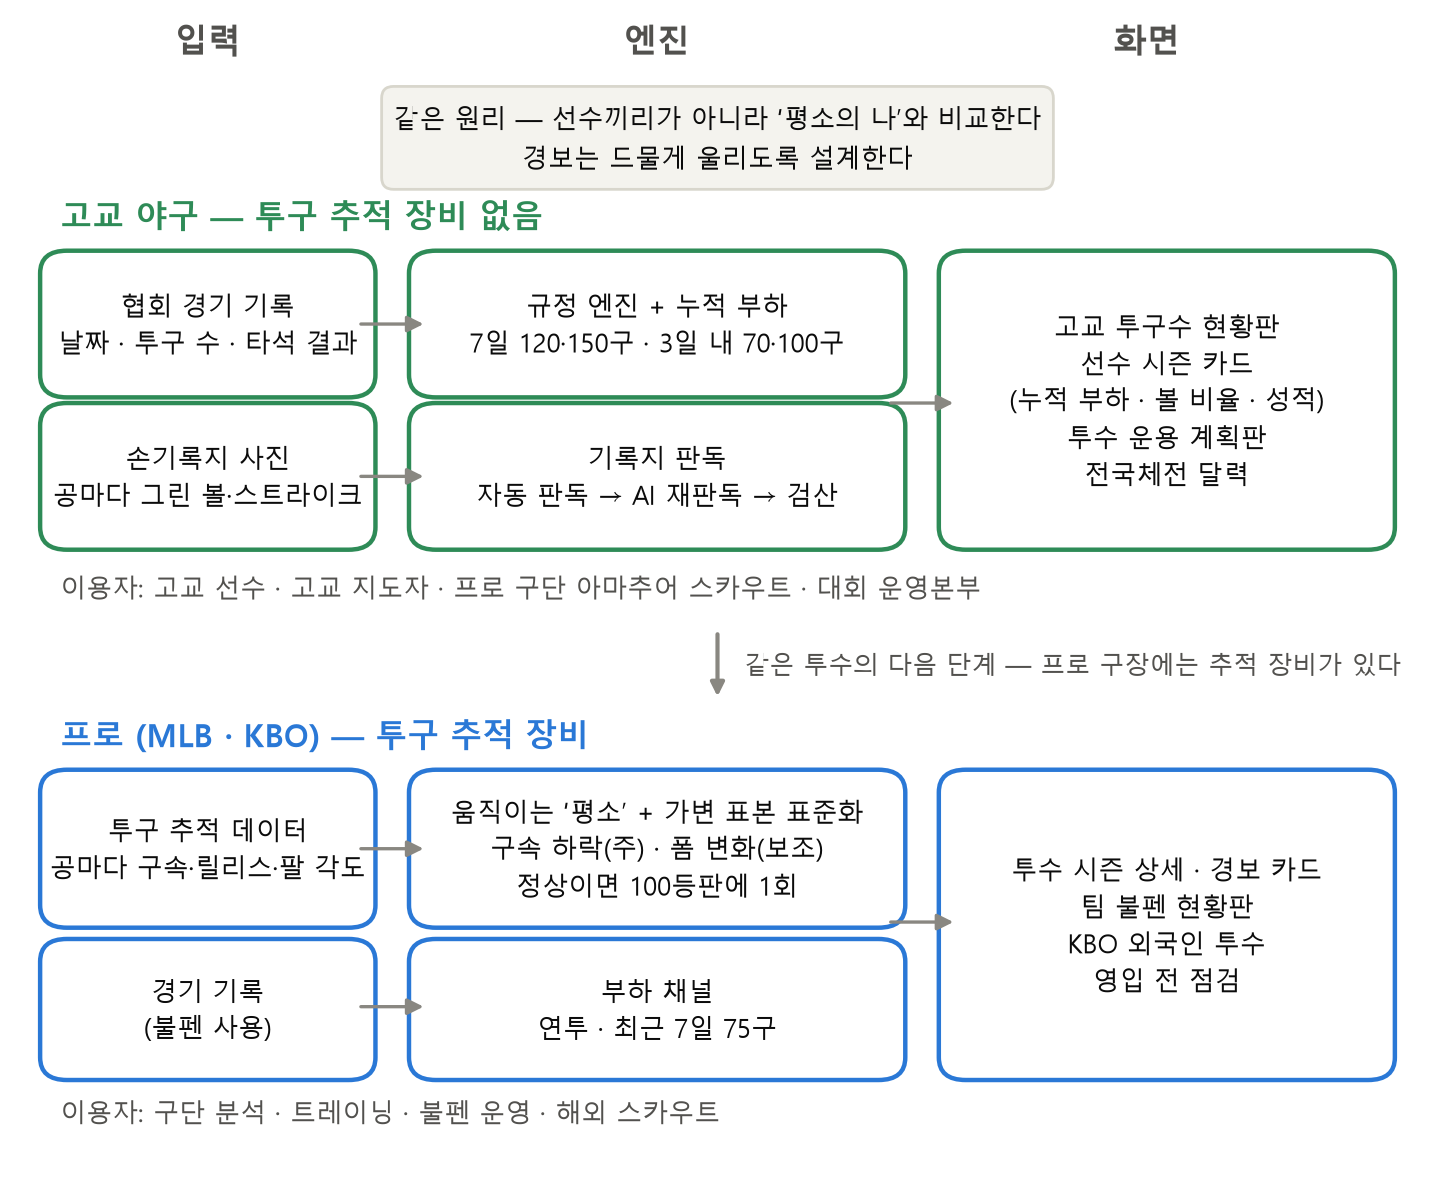
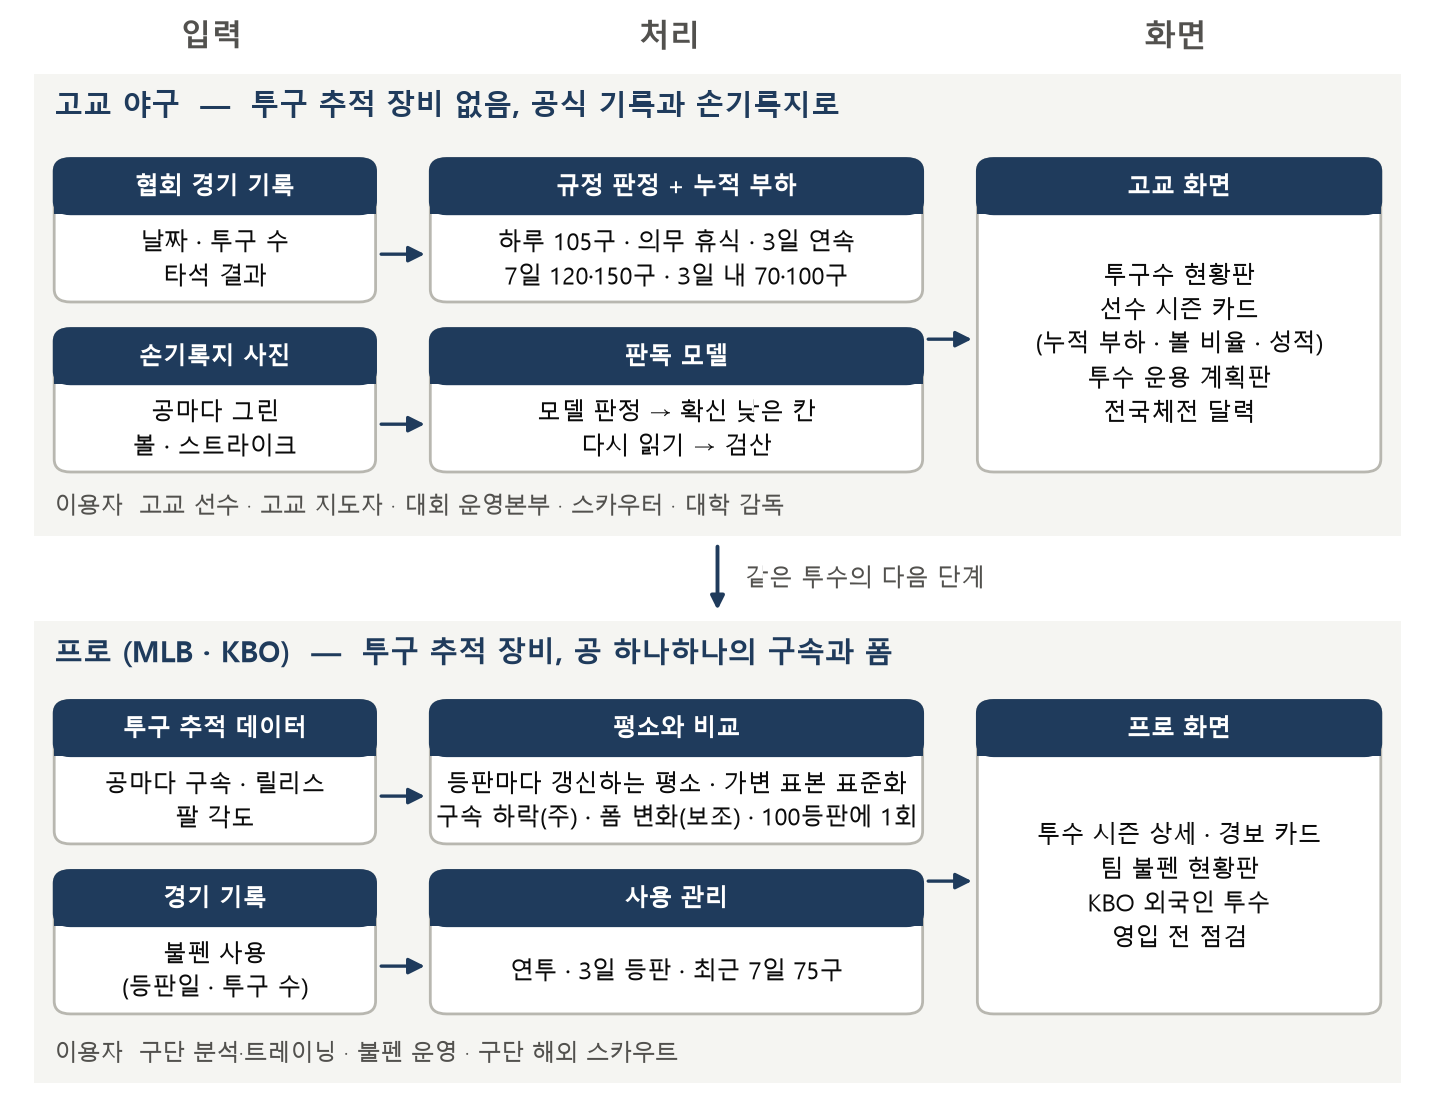
제안서 v4: 요약에 자료표·주요 내용 6개, 경보 횟수를 숫자로, 판독 모델 표현, 서비스 구성 그림 남색으로, 1마일 규칙 출처(Petti 2013), 2026 전국체전 달력, 7장 문구

Changed region(s): [[0.0, 0.0, 0.9812, 0.9864], [0.7666, 0.0, 0.8585, 0.0617], [0.1226, 0.0, 0.184, 0.0617]]

diff --git a/tools/proposal_figures.py b/tools/proposal_figures.py
@@ -24,41 +24,53 @@ def gap_values() -> dict[int, list[int]]:
     return {x["season"]: [int(x["totals"][k]) for _, k in GAP] for x in d["datasets"] if x["mode"] == "season"}
 
 
+NAVY, LINE, BAND = "#1f3b5c", "#b8b7b0", "#f5f5f2"
+
+
+def _panel(ax, x, y, w, h, title, body, fs, title_color=NAVY):
+    """제목 띠 + 본문 상자 (2026-10-25 사용자: 초록·파랑 테두리 상자 대신 — 남색 제목 띠, 흰 상자, 회색 선)."""
+    from matplotlib.patches import FancyBboxPatch
+    ax.add_patch(FancyBboxPatch((x, y), w, h, boxstyle="round,pad=0,rounding_size=0.012", facecolor="white", edgecolor=LINE, linewidth=1.0))
+    ax.add_patch(FancyBboxPatch((x, y + h - 0.052), w, 0.052, boxstyle="round,pad=0,rounding_size=0.012", facecolor=title_color, edgecolor=title_color, linewidth=1.0))
+    ax.add_patch(plt.Rectangle((x, y + h - 0.052), w, 0.02, facecolor=title_color, edgecolor="none"))   # 띠 아래쪽 모서리는 각지게
+    ax.text(x + w / 2, y + h - 0.026, title, ha="center", va="center", fontsize=fs, fontweight="bold", color="white")
+    ax.text(x + w / 2, y + (h - 0.052) / 2, body, ha="center", va="center", fontsize=fs - 0.3, color=plots.INK, linespacing=1.45)
+
+
 def draw_service(path) -> None:
-    """세 열(입력 → 엔진 → 화면)과 두 갈래(고교·프로). 이용자는 갈래 아래 한 줄 — 본문 폭(16cm)에서도 글자가 읽히게 9인치 폭으로."""
+    """세 열(입력 → 처리 → 화면)과 두 갈래(고교·프로). 띠 두 개에 상자 — 색은 남색 하나만."""
     plots.use_style()
-    fig, ax = plt.subplots(figsize=(9, 7.4))
-    ax.set_xlim(-0.02, 1.02); ax.set_ylim(0.02, 1.03); ax.axis("off"); ax.grid(False)
-    fs = 9.5
-    for x, t in ((0.12, "입력"), (0.455, "엔진"), (0.82, "화면")):
-        ax.text(x, 1.01, t, ha="center", va="center", fontsize=12, fontweight="bold", color=plots.INK_SECONDARY)
-    ax.text(0.5, 0.925, "같은 원리 — 선수끼리가 아니라 ‘평소의 나’와 비교한다\n경보는 드물게 울리도록 설계한다",
-            ha="center", va="center", fontsize=fs, color=plots.INK, linespacing=1.5,
-            bbox=dict(boxstyle="round,pad=0.45", facecolor="#f4f3ee", edgecolor="#d8d6cc"))
-    # 1부: 고교 (장비 없음)
-    ax.text(0.01, 0.845, "고교 야구 — 투구 추적 장비 없음", fontsize=11.5, fontweight="bold", color=HS)
-    F._box(ax, 0.01, 0.71, 0.22, 0.10, "협회 경기 기록\n날짜 · 투구 수 · 타석 결과", HS, fontsize=fs)
-    F._box(ax, 0.01, 0.575, 0.22, 0.10, "손기록지 사진\n공마다 그린 볼·스트라이크", HS, fontsize=fs)
-    F._box(ax, 0.285, 0.71, 0.34, 0.10, "규정 엔진 + 누적 부하\n7일 120·150구 · 3일 내 70·100구", HS, fontsize=fs)
-    F._box(ax, 0.285, 0.575, 0.34, 0.10, "기록지 판독\n자동 판독 → AI 재판독 → 검산", HS, fontsize=fs)
-    F._box(ax, 0.68, 0.575, 0.31, 0.235, "고교 투구수 현황판\n선수 시즌 카드\n(누적 부하 · 볼 비율 · 성적)\n투수 운용 계획판\n전국체전 달력", HS, fontsize=fs)
-    for y in (0.76, 0.625):
-        F._arrow(ax, 0.23, y, 0.285, y)
-    F._arrow(ax, 0.625, 0.69, 0.68, 0.69)
-    ax.text(0.01, 0.525, "이용자: 고교 선수 · 고교 지도자 · 프로 구단 아마추어 스카우트 · 대회 운영본부", fontsize=fs, color=plots.INK_SECONDARY, va="center")
+    fig, ax = plt.subplots(figsize=(9, 6.9))
+    ax.set_xlim(-0.01, 1.01); ax.set_ylim(0.0, 1.0); ax.axis("off"); ax.grid(False)
+    fs = 8.8
+    for x, t in ((0.13, "입력"), (0.465, "처리"), (0.835, "화면")):
+        ax.text(x, 0.985, t, ha="center", va="center", fontsize=11, fontweight="bold", color=plots.INK_SECONDARY)
+    for (y0, y1, head, users) in ((0.515, 0.95, "고교 야구  —  투구 추적 장비 없음, 공식 기록과 손기록지로", "이용자  고교 선수 · 고교 지도자 · 대회 운영본부 · 스카우터 · 대학 감독"),
+                                  (0.0, 0.435, "프로 (MLB · KBO)  —  투구 추적 장비, 공 하나하나의 구속과 폼", "이용자  구단 분석·트레이닝 · 불펜 운영 · 구단 해외 스카우트")):
+        ax.add_patch(plt.Rectangle((0.0, y0), 1.0, y1 - y0, facecolor=BAND, edgecolor="none", zorder=0))
+        ax.text(0.015, y1 - 0.03, head, fontsize=10.5, fontweight="bold", color=NAVY, va="center")
+        ax.text(0.015, y0 + 0.028, users, fontsize=fs - 0.4, color=plots.INK_SECONDARY, va="center")
+    L, M, R = (0.015, 0.235), (0.29, 0.36), (0.69, 0.295)     # 왼쪽·가운데·오른쪽 상자 (x, 폭)
+    # 고교
+    _panel(ax, L[0], 0.735, L[1], 0.135, "협회 경기 기록", "날짜 · 투구 수\n타석 결과", fs)
+    _panel(ax, L[0], 0.575, L[1], 0.135, "손기록지 사진", "공마다 그린\n볼 · 스트라이크", fs)
+    _panel(ax, M[0], 0.735, M[1], 0.135, "규정 판정 + 누적 부하", "하루 105구 · 의무 휴식 · 3일 연속\n7일 120·150구 · 3일 내 70·100구", fs)
+    _panel(ax, M[0], 0.575, M[1], 0.135, "판독 모델", "모델 판정 → 확신 낮은 칸\n다시 읽기 → 검산", fs)
+    _panel(ax, R[0], 0.575, R[1], 0.295, "고교 화면", "투구수 현황판\n선수 시즌 카드\n(누적 부하 · 볼 비율 · 성적)\n투수 운용 계획판\n전국체전 달력", fs)
+    for y in (0.78, 0.62):
+        F._arrow(ax, L[0] + L[1], y, M[0], y, color=NAVY)
+    F._arrow(ax, M[0] + M[1], 0.7, R[0], 0.7, color=NAVY)
     # 연결
-    ax.annotate("", xy=(0.5, 0.425), xytext=(0.5, 0.49), arrowprops=dict(arrowstyle="-|>", color=plots.MUTED, lw=1.5))
-    ax.text(0.52, 0.457, "같은 투수의 다음 단계 — 프로 구장에는 추적 장비가 있다", fontsize=fs - 0.5, color=plots.INK_SECONDARY, va="center")
-    # 2부: 프로 (추적 장비)
-    ax.text(0.01, 0.385, "프로 (MLB · KBO) — 투구 추적 장비", fontsize=11.5, fontweight="bold", color=PRO)
-    F._box(ax, 0.01, 0.24, 0.22, 0.11, "투구 추적 데이터\n공마다 구속·릴리스·팔 각도", PRO, fontsize=fs)
-    F._box(ax, 0.01, 0.105, 0.22, 0.095, "경기 기록\n(불펜 사용)", PRO, fontsize=fs)
-    F._box(ax, 0.285, 0.24, 0.34, 0.11, "움직이는 ‘평소’ + 가변 표본 표준화\n구속 하락(주) · 폼 변화(보조)\n정상이면 100등판에 1회", PRO, fontsize=fs)
-    F._box(ax, 0.285, 0.105, 0.34, 0.095, "부하 채널\n연투 · 최근 7일 75구", PRO, fontsize=fs)
-    F._box(ax, 0.68, 0.105, 0.31, 0.245, "투수 시즌 상세 · 경보 카드\n팀 불펜 현황판\nKBO 외국인 투수\n영입 전 점검", PRO, fontsize=fs)
-    F._arrow(ax, 0.23, 0.295, 0.285, 0.295); F._arrow(ax, 0.23, 0.155, 0.285, 0.155)
-    F._arrow(ax, 0.625, 0.23, 0.68, 0.23)
-    ax.text(0.01, 0.06, "이용자: 구단 분석 · 트레이닝 · 불펜 운영 · 해외 스카우트", fontsize=fs, color=plots.INK_SECONDARY, va="center")
+    ax.annotate("", xy=(0.5, 0.44), xytext=(0.5, 0.51), arrowprops=dict(arrowstyle="-|>", color=NAVY, lw=1.4))
+    ax.text(0.52, 0.475, "같은 투수의 다음 단계", fontsize=fs - 0.3, color=plots.INK_SECONDARY, va="center")
+    # 프로
+    _panel(ax, L[0], 0.225, L[1], 0.135, "투구 추적 데이터", "공마다 구속 · 릴리스\n팔 각도", fs)
+    _panel(ax, L[0], 0.065, L[1], 0.135, "경기 기록", "불펜 사용\n(등판일 · 투구 수)", fs)
+    _panel(ax, M[0], 0.225, M[1], 0.135, "평소와 비교", "등판마다 갱신하는 평소 · 가변 표본 표준화\n구속 하락(주) · 폼 변화(보조) · 100등판에 1회", fs)
+    _panel(ax, M[0], 0.065, M[1], 0.135, "사용 관리", "연투 · 3일 등판 · 최근 7일 75구", fs)
+    _panel(ax, R[0], 0.065, R[1], 0.295, "프로 화면", "투수 시즌 상세 · 경보 카드\n팀 불펜 현황판\nKBO 외국인 투수\n영입 전 점검", fs)
+    F._arrow(ax, L[0] + L[1], 0.27, M[0], 0.27, color=NAVY); F._arrow(ax, L[0] + L[1], 0.11, M[0], 0.11, color=NAVY)
+    F._arrow(ax, M[0] + M[1], 0.19, R[0], 0.19, color=NAVY)
     fig.savefig(path)
     plt.close(fig)
 

diff --git a/tools/build_proposal.py b/tools/build_proposal.py
@@ -29,8 +29,8 @@ ROOT = Path(__file__).resolve().parents[1]
 SOURCE = ROOT / "docs" / "proposal" / "proposal.md"
 TEMPLATE = ROOT / "docs" / "proposal" / "template.docx"
 COVER = {   # 템플릿 표지에서 바꾸는 줄 (나머지 — 행사명·제안자·연락처·링크·날짜 — 은 템플릿 그대로)
-    "subtitle": "고교부터 프로까지, 투수의 혹사와 부상 위험 신호를 알려 주는 모니터링 서비스",
-    "field": "공모 분야: 경기력 향상 기술(부상 예방) · 대회 운영·관리 기술(경기기록 판독 자동화, 선수 관리)",
+    "subtitle": "고교부터 프로까지, 투수의 누적 부하와 부상 위험 신호를 알려 주는 웹 서비스",
+    "field": "공모 분야: 대회 운영·관리 기술(경기기록 판독 자동화, 선수 관리) · 경기력 향상 기술(부상 예방)",
 }
 TEXT_W = 9072                                   # 본문 폭(dxa) = A4 21cm − 좌우 여백 2.5cm×2
 BULLET_NUM = "3"                                # 템플릿 numbering.xml: numId 3 = 글머리(•), abstractNum 3 = 번호(1.)
